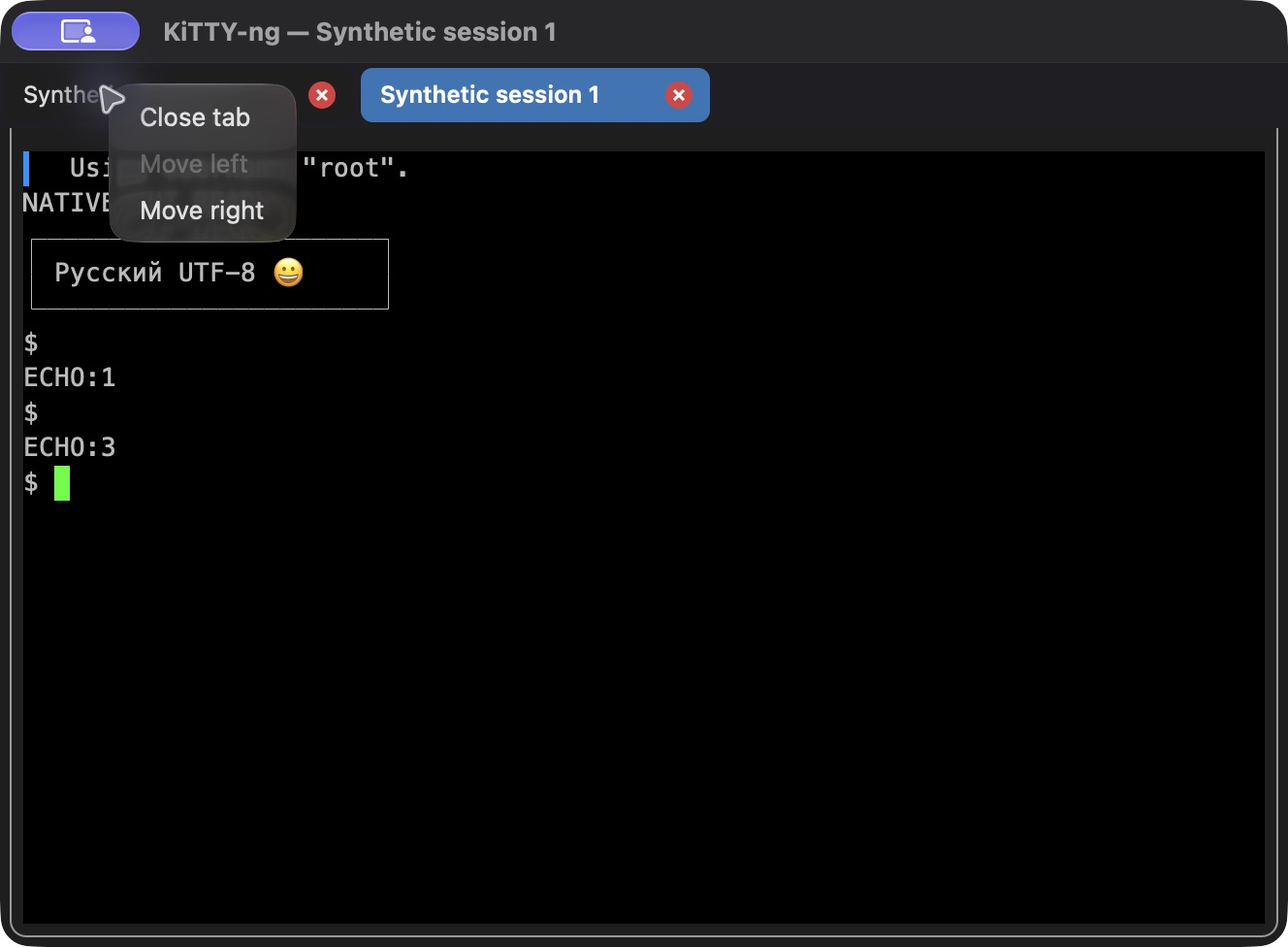
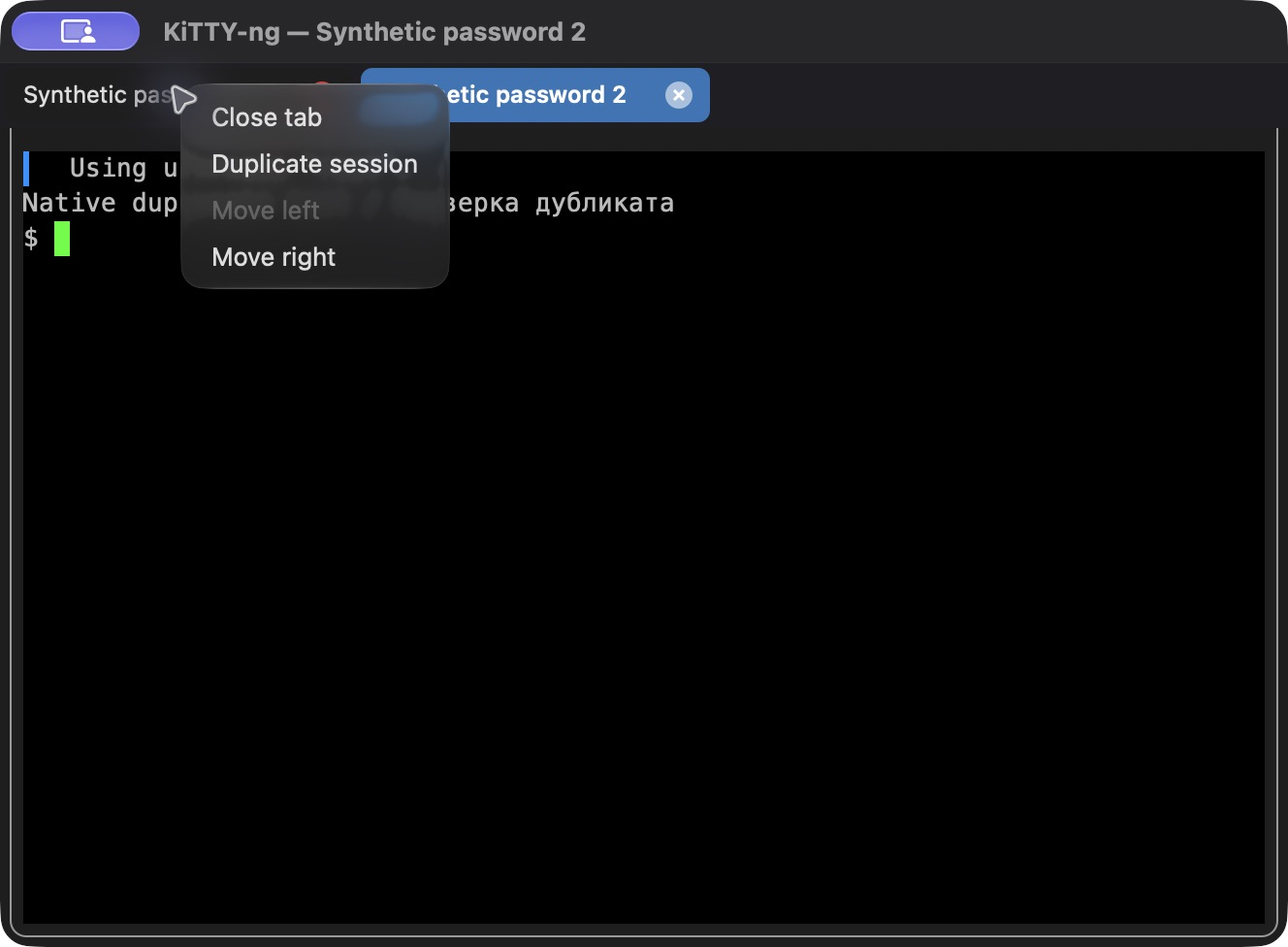
macOS: validate 0.85-8 duplication and prompt immediately after auth rejection

diff --git a/test/macos_native_duplicate_auth.py b/test/macos_native_duplicate_auth.py
@@ -1,0 +1,143 @@
+"""Disposable native GUI acceptance fixture for runtime-only duplicate auth.
+
+Drive the real app via native UI, change only numeric controls in the fixture,
+then quit. Reports contain counts and success flags, never credential values.
+"""
+import argparse
+import base64
+import hashlib
+import json
+import logging
+import os
+from pathlib import Path
+import socket
+import subprocess
+import tempfile
+import threading
+import time
+
+import paramiko
+from duplicate_auth_fixture import PPK, PUBLIC, PASSPHRASE
+
+logging.getLogger('paramiko').setLevel(logging.CRITICAL)
+INITIAL = 'Synthetic-Duplicate-Password-8!'
+ROTATED = 'Synthetic-Rotated-Password-8!'
+
+
+def main():
+    parser=argparse.ArgumentParser(description=__doc__)
+    parser.add_argument('app',type=Path)
+    parser.add_argument('--arch',choices=['arm64','x86_64'],required=True)
+    parser.add_argument('--mode',choices=['password','key','agent','otp'],required=True)
+    parser.add_argument('--language',choices=['ru','en'],default='ru')
+    parser.add_argument('--fixture',type=Path,required=True)
+    parser.add_argument('--report',type=Path,required=True)
+    args=parser.parse_args();app=args.app.resolve();args.report.parent.mkdir(parents=True,exist_ok=True)
+    digest=lambda p:hashlib.sha256(p.read_bytes()).hexdigest()
+    report=dict(status='running',architecture=args.arch,mode=args.mode,main_sha256=digest(app/'Contents/MacOS/kitty-ng'),auth_events=[],connections=[],commands=[],failures=[])
+    lock=threading.RLock();stop=threading.Event();workers=[];transports=[];agent=None;process=None
+    with tempfile.TemporaryDirectory(prefix='kitty-ng-duplicate8.',dir='/tmp') as temporary:
+        root=Path(temporary);profiles=root/'profiles';(profiles/'Sessions').mkdir(parents=True);(profiles/'SSH-Keys').mkdir()
+        host=paramiko.RSAKey.generate(2048);agent_key=paramiko.RSAKey.generate(2048)
+        listener=socket.socket();listener.bind(('127.0.0.1',0));listener.listen();listener.settimeout(.2);port=listener.getsockname()[1]
+        fingerprint='SHA256:'+base64.b64encode(hashlib.sha256(host.asbytes()).digest()).decode().rstrip('=')
+        control=root/'control.json';control.write_text(json.dumps(dict(password_generation=0)))
+        state=dict(root=str(profiles),control=str(control),port=port,hostkey=fingerprint,mode=args.mode,events=report)
+        def update():
+            with lock:
+                temporary_file=args.fixture.with_suffix('.tmp');temporary_file.write_text(json.dumps(state,indent=2)+'\n');temporary_file.replace(args.fixture)
+        def event(kind,entry):
+            with lock:report[kind].append(entry);update()
+        def spawn(fn,*a):
+            t=threading.Thread(target=fn,args=a,daemon=True);workers.append(t);t.start()
+        class Server(paramiko.ServerInterface):
+            def __init__(self,connection):self.connection=connection
+            def get_allowed_auths(self,username):return 'publickey' if args.mode in ('key','agent') else 'keyboard-interactive' if args.mode=='otp' else 'password'
+            def check_auth_password(self,user,value):
+                generation=json.loads(control.read_text())['password_generation'];ok=user=='root' and value==(ROTATED if generation else INITIAL)
+                event('auth_events',dict(connection=self.connection,method='password',accepted=ok));return paramiko.AUTH_SUCCESSFUL if ok else paramiko.AUTH_FAILED
+            def check_auth_publickey(self,user,key):
+                valid=key.get_base64()==PUBLIC if args.mode=='key' else key.asbytes()==agent_key.asbytes();ok=user=='root' and valid
+                event('auth_events',dict(connection=self.connection,method='publickey',accepted=ok));return paramiko.AUTH_SUCCESSFUL if ok else paramiko.AUTH_FAILED
+            def check_auth_interactive(self,user,submethods):
+                self.user=user;return paramiko.InteractiveQuery('Synthetic verification','One-time challenge',('Verification code:',False))
+            def check_auth_interactive_response(self,responses):
+                ok=self.user=='root' and responses==[str(123450+self.connection)]
+                event('auth_events',dict(connection=self.connection,method='one-time-code',accepted=ok));return paramiko.AUTH_SUCCESSFUL if ok else paramiko.AUTH_FAILED
+            def check_channel_request(self,kind,chanid):return paramiko.OPEN_SUCCEEDED if kind=='session' else paramiko.OPEN_FAILED_ADMINISTRATIVELY_PROHIBITED
+            def check_channel_pty_request(self,*a):return True
+            def check_channel_window_change_request(self,*a):return True
+            def check_channel_shell_request(self,channel):
+                event('connections',self.connection)
+                def shell():
+                    try:
+                        time.sleep(.1);channel.sendall(f'\x1b]0;Synthetic {args.mode} {self.connection}\x07Native duplicate test / Проверка дубликата\r\n$ '.encode());channel.settimeout(.2);buffer=b''
+                        while not stop.is_set() and channel.active:
+                            try:chunk=channel.recv(4096)
+                            except socket.timeout:continue
+                            if not chunk:return
+                            buffer+=chunk
+                            while b'\r' in buffer:
+                                command,buffer=buffer.split(b'\r',1);value=command.decode('utf8',errors='replace')
+                                if any(secret in value for secret in (INITIAL,ROTATED,PASSPHRASE)):
+                                    report['failures'].append('secret reached terminal input');value='REDACTED'
+                                event('commands',dict(connection=self.connection,text=value));channel.sendall(b'\r\nOK\r\n$ ')
+                    except (EOFError,OSError,paramiko.SSHException):pass
+                spawn(shell);return True
+        def serve(sock,number):
+            transport=paramiko.Transport(sock);transports.append(transport);transport.add_server_key(host);channels=[]
+            try:
+                transport.start_server(server=Server(number))
+                while transport.is_active() and not stop.is_set():
+                    channel=transport.accept(.2)
+                    if channel:channels.append(channel)
+            except (EOFError,OSError,paramiko.SSHException):pass
+            finally:transport.close()
+        def accept():
+            count=0
+            while not stop.is_set():
+                try:sock,_=listener.accept()
+                except socket.timeout:continue
+                except OSError:return
+                count+=1;spawn(serve,sock,count)
+        spawn(accept)
+        keyfile='SSH-Keys/protected.ppk' if args.mode=='key' else ''
+        if keyfile:(profiles/keyfile).write_bytes(PPK)
+        defaults=f'HostName\\127.0.0.1\\\nPortNumber\\{port}\\\nProtocol\\ssh\\\nUserName\\root\\\nPublicKeyFile\\{keyfile}\\\nPassword\\\\\nAuthGSSAPI\\0\\\nAuthGSSAPIKEX\\0\\\nTryAgent\\{int(args.mode=="agent")}\\\nSaveOnExit\\1\\\nSaveWindowPos\\1\\\nWarnOnClose\\1\\\nSSHManualHostKeys\\{fingerprint}\\\n'
+        for name in ['Default%20Settings','Native-auth']:(profiles/'Sessions'/name).write_text(defaults)
+        (profiles/'kitty.ini').write_text('[KiTTY]\nsavemode=dir\nSessionTabs=1\n')
+        before={p.name:digest(p) for p in (profiles/'Sessions').iterdir()};report['profiles_before']=before
+        env=os.environ.copy();env['KITTY_NG_PORTABLE_DIR']=str(profiles);env.pop('SSH_AUTH_SOCK',None);env.pop('KITTY_NG_LANGUAGE',None)
+        try:
+            with (root/'process.log').open('wb') as log:
+                if args.mode=='agent':
+                    key=profiles/'SSH-Keys/agent.openssh';agent_key.write_private_key_file(str(key));sock=root/'agent.sock'
+                    empty=root/'empty';empty.write_text('\n');ppk=profiles/'SSH-Keys/agent.ppk'
+                    subprocess.run(['/usr/bin/arch','-'+args.arch,str(app/'Contents/Helpers/kittygen'),str(key),'-O','private','-o',str(ppk),'--new-passphrase',str(empty)],check=True,capture_output=True,env=env,timeout=30)
+                    key=ppk
+                    agent=subprocess.Popen(['/usr/bin/arch','-'+args.arch,str(app/'Contents/Helpers/kageant'),'--foreground','--symlink',str(sock),str(key)],env=env,stdout=log,stderr=log)
+                    deadline=time.monotonic()+10
+                    while not sock.exists():
+                        assert agent.poll() is None and time.monotonic()<deadline,'agent failed to start: '+(root/'process.log').read_text(errors='replace');time.sleep(.05)
+                    env['SSH_AUTH_SOCK']=str(sock)
+                command=['/usr/bin/arch','-'+args.arch,str(app/'Contents/MacOS/kitty-ng'),'--language',args.language]
+                process=subprocess.Popen(command,env=env,stdout=log,stderr=log);state['pid']=process.pid;update();print('READY:',args.fixture,flush=True)
+                process.wait(timeout=1800);report['exit_code']=process.returncode;assert process.returncode==0,'GUI abnormal exit'
+            report['profiles_after']={p.name:digest(p) for p in (profiles/'Sessions').iterdir()};assert before==report['profiles_after'],'portable profiles changed'
+            leaked=[]
+            for p in root.rglob('*'):
+                if p.is_file() and not p.is_socket():
+                    data=p.read_bytes()
+                    if any(secret.encode() in data for secret in (INITIAL,ROTATED,PASSPHRASE)):leaked.append(str(p.relative_to(root)))
+            assert not leaked,'credential marker persisted in '+','.join(leaked)
+            report['no_secret_files']=True;assert not report['failures'];report['status']='fixture-finished'
+        except BaseException as error:
+            report['status']='failed';report['failures'].append(type(error).__name__+': '+str(error));raise
+        finally:
+            if process and process.poll() is None:process.terminate();process.wait(timeout=10)
+            if agent and agent.poll() is None:agent.terminate();agent.wait(timeout=10)
+            stop.set();listener.close()
+            for t in transports:t.close()
+            args.report.write_text(json.dumps(report,indent=2)+'\n')
+
+if __name__=='__main__':main()

diff --git a/macos/client.m b/macos/client.m
@@ -216,7 +216,12 @@ static SeatPromptResult host_key(Seat *seat,const char *host,int port,const char
 }
 static SeatPromptResult weak_crypto(Seat *seat,SeatDialogText *text,void(*callback)(void*,SeatPromptResult),void *context){NSAlert *a=[NSAlert new];a.messageText=T(@"SSH security warning",@"Предупреждение безопасности SSH");a.informativeText=dialog_text(text);[a addButtonWithTitle:T(@"Cancel",@"Отмена")];[a addButtonWithTitle:T(@"Continue",@"Продолжить")];BOOL accepted=[a runModal]==NSAlertSecondButtonReturn;if(!accepted)SEAT(seat)->manual_abort=true;return accepted?SPR_OK:SPR_USER_ABORT;}
 static SeatPromptResult prompts(Seat *seat,prompts_t *p){MacSession *s=SEAT(seat);
-    if(kr_auth_reuse(s->conf,p))return SPR_OK;
+    if(kr_auth_reuse(s->conf,p)){
+        /* The runtime cache and saved-profile password share one automatic
+         * password attempt. A rejected cache must open the native prompt. */
+        if(kr_auth_prompt(p)==CONF_kr_auth_password)s->password_tried=true;
+        return SPR_OK;
+    }
     if(!s->password_tried&&p->n_prompts==1&&!p->prompts[0]->echo&&p->to_server&&(!p->from_server||strstr(p->prompts[0]->prompt,"assword"))){const char *password=conf_get_str(s->conf,CONF_password);if(*password){prompt_set_result(p->prompts[0],password);s->password_tried=true;kr_auth_capture(s->conf,p,SPR_OK);return SPR_OK;}}
     for(size_t i=0;i<p->n_prompts;i++){NSAlert *a=[NSAlert new];a.messageText=@"KiTTY-ng — SSH";a.informativeText=S(p->from_server?p->prompts[i]->prompt:kr_mac_translate(p->prompts[i]->prompt));NSTextField *field=p->prompts[i]->echo?[[NSTextField alloc]initWithFrame:NSMakeRect(0,0,350,28)]:[[NSSecureTextField alloc]initWithFrame:NSMakeRect(0,0,350,28)];a.accessoryView=field;[a addButtonWithTitle:T(@"Continue",@"Продолжить")];[a addButtonWithTitle:T(@"Cancel",@"Отмена")];[a.window makeFirstResponder:field];if([a runModal]!=NSAlertFirstButtonReturn){s->manual_abort=true;return SPR_USER_ABORT;}prompt_set_result(p->prompts[i],field.stringValue.UTF8String);field.stringValue=@"";}kr_auth_capture(s->conf,p,SPR_OK);return SPR_OK;
 }

diff --git a/macos/selftest-ui.m b/macos/selftest-ui.m
@@ -2,9 +2,11 @@
 #import <AppKit/AppKit.h>
 #include "putty.h"
 #include "portable.h"
+#include "storage.h"
 #include "language.h"
 #include "utilities.h"
 #include "client.h"
+#include "kittyng-auth.h"
 #include <stdlib.h>
 int kr_mac_self_test_ui(void){
     const char *enabled=getenv("KITTY_NG_SELF_TEST"),*root=kr_mac_root();
@@ -37,6 +39,14 @@ int kr_mac_self_test_ui(void){
         CHECK([app.mainMenu.itemArray.lastObject.title isEqualToString:title]);
         CHECK([[edit itemAtIndex:1].title isEqualToString:language?@"Копировать":@"Copy"]);
     }
+    Conf *auth=conf_new();load_settings("Default Settings",auth);conf_set_str(auth,CONF_host,"synthetic.invalid");
+    prompts_t *prompt=new_prompts();prompt->from_server=false;prompt->name=dupstr("SSH password");add_prompt(prompt,dupstr("Password: "),false);
+    prompt_set_result(prompt->prompts[0],"synthetic-runtime-auth-marker");kr_auth_capture(auth,prompt,SPR_OK);
+    Conf *copy=kr_auth_duplicate(auth,true);conf_free(auth);CHECK(kr_auth_reuse(copy,prompt));CHECK(!kr_auth_reuse(copy,prompt));
+    CHECK(!save_settings("runtime-auth-native-test",copy));Conf *reload=conf_new();CHECK(load_settings("runtime-auth-native-test",reload));CHECK(!*conf_get_str(reload,CONF_kr_auth_password));conf_free(reload);del_settings("runtime-auth-native-test");
+    conf_set_int(copy,CONF_kr_auth_attempts,0);prompt->from_server=true;CHECK(!kr_auth_reuse(copy,prompt));prompt->from_server=false;
+    conf_set_str(copy,CONF_host,"different.invalid");CHECK(!kr_auth_reuse(copy,prompt));conf_free(copy);free_prompts(prompt);
+    puts("PASS: native auth cache survives source close, one attempt, never saved, server challenge and changed identity rejected");
     CHECK(kr_mac_test_session_menu_ui()==0);
     CHECK(kr_mac_test_tabs_ui()==0);
     CHECK(kr_mac_test_keygen_ui()==0);

diff --git a/macos/session-tabs.h b/macos/session-tabs.h
@@ -148,8 +148,19 @@ static BOOL macTabsEnabled(void){
 }
 @end
 
+static NSColor *macTestCloseColour(MacTabButton *button){
+    NSBitmapImageRep *bitmap=[[NSBitmapImageRep alloc]initWithBitmapDataPlanes:NULL pixelsWide:20 pixelsHigh:20 bitsPerSample:8 samplesPerPixel:4 hasAlpha:YES isPlanar:NO colorSpaceName:NSDeviceRGBColorSpace bytesPerRow:0 bitsPerPixel:0];
+    [NSGraphicsContext saveGraphicsState];NSGraphicsContext.currentContext=[NSGraphicsContext graphicsContextWithBitmapImageRep:bitmap];[button drawRect:button.bounds];[NSGraphicsContext restoreGraphicsState];
+    return [[bitmap colorAtX:5 y:10]colorUsingColorSpace:NSColorSpace.deviceRGBColorSpace];
+}
 int kr_mac_test_tabs_ui(void){
 #define TAB_CHECK(c) do{if(!(c)){fprintf(stderr,"FAIL tabs: %s\n",#c);return 1;}}while(0)
+    MacTabButton *close=[[MacTabButton alloc]initWithFrame:NSMakeRect(0,0,20,20)];close.closeControl=YES;
+    NSColor *gray=macTestCloseColour(close);
+    [close mouseEntered:nil];TAB_CHECK(close.hovered);
+    NSColor *red=macTestCloseColour(close);
+    TAB_CHECK(fabs(gray.redComponent-gray.greenComponent)<0.12&&red.redComponent>red.greenComponent+0.3);
+    [close mouseExited:nil];TAB_CHECK(!close.hovered);
     MacTabHost *host=[MacTabHost new];
     MacTerminal *a=[MacTerminal new],*b=[MacTerminal new],*c=[MacTerminal new];
     a.sessionTitle=@"Synthetic A";b.sessionTitle=@"Synthetic B";c.sessionTitle=@"Synthetic C";

diff --git a/docs/macos-native-validation.md b/docs/macos-native-validation.md
@@ -1,3 +1,19 @@
+# Нативная подготовка macOS 0.85-8 — 28 октября 2026
+
+База Windows/Linux: `e82ef7c4dc6d01689682b528885359305787848f`. Синхронизированные файлы сверены с этим коммитом; пакеты и отчёты защищены контрольными суммами в `dist/macos-native/preflight-0.85-8.json`. Версия остаётся 0.85-8, релизы/вложения/теги из Mac-чата не публикуются и не меняются.
+
+В живом GUI воспроизведён и исправлен дефект Mac: после отклонения кэшированного пароля клиент отправлял тот же пароль повторно через fallback сохранённого Conf. Теперь оба источника используют одну автоматическую попытку. Серверные события подтверждают ровно один отказ перед новым запросом. Проверка неактивной вкладки с устаревшим паролем при активной вкладке с новым паролем доказывает, что копируется именно выбранный источник.
+
+На ARM64 и x86_64 через Rosetta проверены: обычный пароль, зашифрованный PPK с повторным использованием фразы, Kageant, отдельные OTP для каждого подключения, закрытие источника и сохранение ввода у копии. На Intel проверен ввод неверной фразы ключа с новым запросом, SessionTabs=0 с независимыми окнами. На обоих срезах настоящие клавиши после переключения, закрытия соседней вкладки и отмены закрытия окна сверены с командами серверных соединений. Временные профили и Default Settings с SaveOnExit/SaveWindowPos не изменились, сканирование файлов тестового каталога не нашло секретных маркеров. Значения секретов не записываются в отчёты; fixture фиксирует только метод и успех авторизации.
+
+На ARM64 дополнительно проверены полноэкранное дублирование, сохранение размера развёрнутого окна и About с полным номером 0.85-8 без Embedded HTML Help. AppKit regression test на обоих срезах проверяет серый/красный цвет реального drawRect при mouseEntered/mouseExited; новые снимки RU/EN показывают четыре команды меню вкладки. Физический hover отдельно не заявляется по синтетическим scroll/click-событиям управляющего инструмента.
+
+SSH/password/keyboard-interactive/key/agent, SCP/SFTP/Unicode/recursive/batch, неверный host key, HTTP/SOCKS5 и реальные OpenSSH host/user certificates проверены для помощников 0.85-8 на обоих срезах. Приложение и пять помощников Universal 2; подпись и содержимое смонтированного DMG проверяет штатный сборщик. Последний официальный stable проверяется перед каждой сборкой: LLVM 23.1.4, CMake 4.4.4, Ninja 1.13.2, SDK 27.0; точное происхождение в macos-build.json.
+
+После фиксации исходников/документов пакет пересобирается из чистого финального коммита. Исполнение неизменившегося GUI и помощников повторно используется только при доказанном совпадении всех Mach-O байтов обоих срезов, кроме встроенного коммита, LC_UUID и подписи; исходные хеши и коммиты тестов сохраняются. Итоговые пути и SHA-256 — в `macos-0.85-8-delivery.json`. Согласование общего коммита и финальная пересборка Windows/Linux — в [обратной передаче](releases/0.85-8-windows-return.md).
+
+---
+
 # Обновление macOS 0.85-7: вкладки — 27 октября 2026
 
 Нативная реализация AppKit повторяет поведение Windows/Linux: дубликат в текущем окне, скрытая полоса при одном сеансе, переключение, перетаскивание и контекстное перемещение/закрытие. Крестик закрывает вкладку без подтверждения; закрытие всего окна учитывает WarnOnClose. Каждая вкладка имеет свой Conf, терминал и backend.

diff --git a/docs/releases/0.85-8-windows-return.md b/docs/releases/0.85-8-windows-return.md
@@ -1,0 +1,24 @@
+# Передача macOS 0.85-8 Windows-чату
+
+Mac-подготовка выполнена в общей папке KiTTY-NG, исходная база — `e82ef7c4dc6d01689682b528885359305787848f`. Версию не повышать. Итоговый точный коммит, SHA-256 и путь к DMG записаны в `dist/macos-native/macos-0.85-8-delivery.json`; коммит отправлен в origin/main.
+
+## Что изменено после исходной базы
+
+- Mac: runtime-кэш и fallback сохранённого пароля теперь делят одну автоматическую попытку. После одного отказа показывается обычный запрос. Воспроизведение до исправления и серверные счётчики сохранены без значений секретов.
+- Добавлены Mac-native regression tests хранения кэша, отказа повторной попытки, OTP/смены identity, отсутствия runtime-поля в записанном профиле и отрисовки серого/красного крестика.
+- Новый изолированный fixture `test/macos_native_duplicate_auth.py` проверяет GUI с паролем, защищённым ключом, агентом и OTP. Обновлены снимки RU/EN и Mac-документация.
+
+## Согласование общего выпуска
+
+1. Прочитать AGENTS.md. Сверить чистую рабочую копию с итоговым Mac-коммитом, сохранив чужие изменения. Mac ничего не публиковал и не менял теги.
+2. Перед финальной Windows/Linux-пересборкой проверить аналогичный fallback после `kr_auth_reuse` в `windows/window.c` и `unix/window.c`: при успешной выдаче кэшированного SSH-пароля флаги `kr_saved_password_tried` / `saved_password_used` в исходной базе не выставляются. Mac воспроизводит из-за этого две автоматические отправки. На Windows/Linux требуется отдельная нативная проверка случая, когда Conf_password заполнен, сервер сменил пароль, а дубликат использует runtime-кэш; результат Mac не считать их проверкой.
+3. Если нужны дополнительные изменения исходников, согласовать новый коммит с Mac и передать его для штатной переупаковки. Не подменять provenance вручную. Номер 0.85-8 сохраняется.
+4. Пересобрать Windows x64/x86/ARM64 и Linux из окончательно согласованного коммита штатными tools/local-build.py и tools/linux-package-windows.py, с последним официальным stable и сохранением незатронутых успешных проверок. Mac на Windows не собирать. Сохранить отчёты и нативную Linux-проверку именно поставляемых бинарников.
+5. Только после сообщения пользователя о готовности Mac и совпадения происхождения всех шести пакетов Windows-чат выполняет:
+
+```powershell
+python tools/release-build.py --assemble-only --macos-dir dist/macos-native
+python tools/publish-release.py
+```
+
+Публикация только из Windows-чата, без --pending-macos. Сохранить предыдущие релизы и независимый kitty-ng-fs. После публикации проверить все SHA-256 и latest. Mac-артефакты: `kitty-ng-0.85-8-macos-universal.dmg`, `macos-build.json`, `macos-dmg.json`, `gui-acceptance.json`, `runtime-arm64.json`, `runtime-x86_64.json`, `certificates.json`, `proxies-*.json`, `auth-*.json` в dist/macos-native.

diff --git a/docs/macos.md b/docs/macos.md
@@ -4,6 +4,12 @@
 
 **Universal: Apple Silicon и Intel в одном приложении.** Выпуск 0.85-7 поставляется в DMG, требует macOS 13 или новее. Пользователь подтвердил основную работу на MacBook Air M3. Приложение использует нативный интерфейс AppKit и ядро PuTTY 0.85.
 
+## Подготовка 0.85-8
+
+В меню любой вкладки, включая неактивную, добавлено «Дублировать сеанс». Пароль или фраза ключа уже авторизованного источника передаются независимой копии только в памяти. После отказа пароль запрашивается снова; OTP и серверные интерактивные ответы не повторяются. Закрытие источника не закрывает копию. Это действует и при SessionTabs=0. Крестик в 0.85-8 серый, при наведении — красный. Дублирование в текущий host не создаёт промежуточного окна и сохраняет полноэкранное/развёрнутое состояние.
+
+Портативный формат общий с Windows; данные остаются вне `.app`. Публикацию 0.85-8 ведёт Windows-чат после сообщения пользователя о готовности Mac.
+
 ## Первый запуск
 
 1. Откройте `kitty-ng-0.85-7-macos-universal.dmg`.

diff --git a/docs/macos.en.md b/docs/macos.en.md
@@ -4,6 +4,12 @@
 
 **Universal: Apple Silicon and Intel in one app.** The 0.85-7 release is supplied as a DMG and targets macOS 13 or later. The user confirmed basic operation on a MacBook Air M3. The app uses native AppKit UI and the PuTTY 0.85 core.
 
+## Preparing 0.85-8
+
+Every tab context menu now offers Duplicate session, including inactive tabs. An authenticated source passes its password or key passphrase to an independent copy in memory only. A rejected password prompts again; OTPs and server challenges are never replayed. Closing the source leaves its copy connected, including with SessionTabs=0. The close button is gray normally and red on hover. Duplication in the current host creates no intermediate window and retains fullscreen/zoomed state.
+
+Portable Windows profiles remain shared, with data outside `.app`. The Windows chat will publish 0.85-8 after the user confirms Mac readiness.
+
 ## First launch
 
 1. Open `kitty-ng-0.85-7-macos-universal.dmg`.
